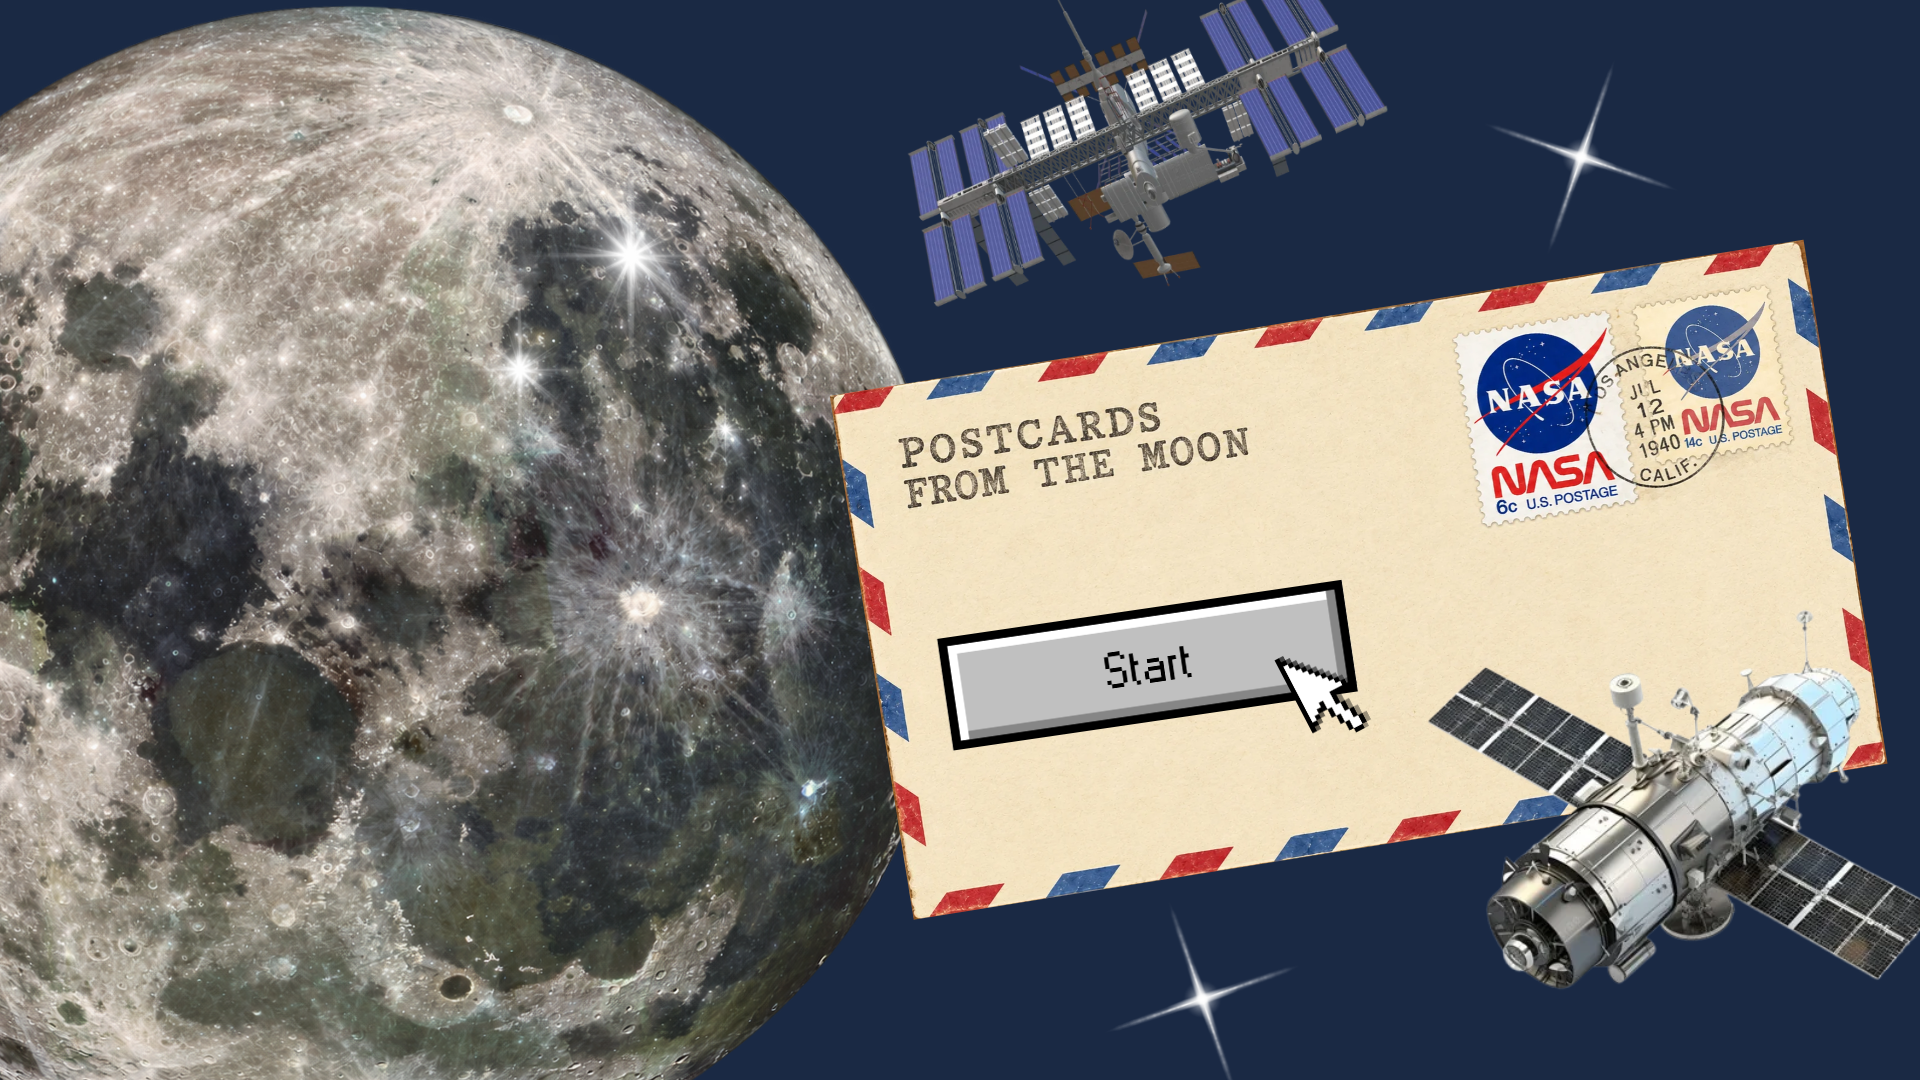
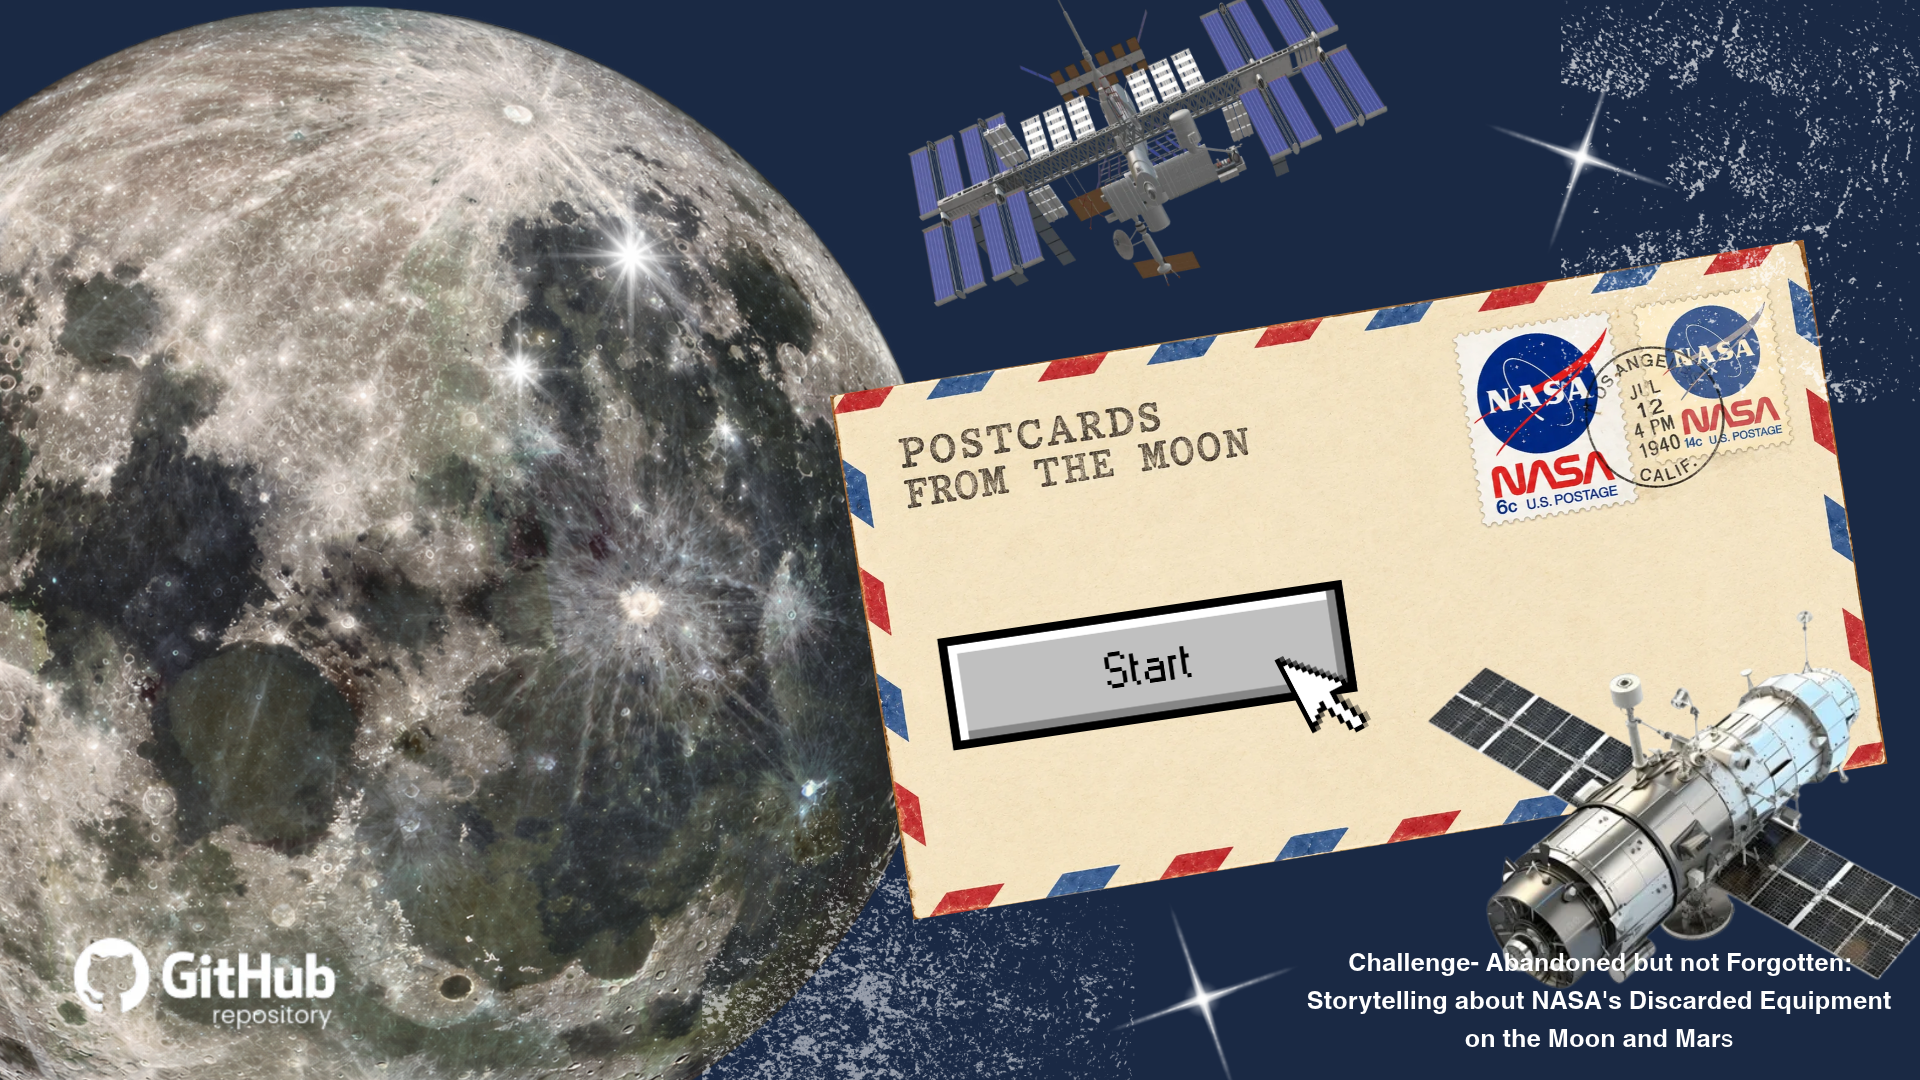
Add files via upload

diff --git a/second.html b/second.html
@@ -23,28 +23,30 @@
             background-color: #142541;
         }
 
-        /* Animated background */
+        /* GIF BACKGROUND */
 
-        .background-video {
+        .background {
             position: fixed;
+            width: 100%;
+            height: 100%;
             top: 0;
             left: 0;
 
-            width: 100%;
-            height: 100%;
+            background-image: url("space.gif");
+            background-size: cover;
+            background-position: center;
+            background-repeat: no-repeat;
 
-            object-fit: cover;
             z-index: 1;
         }
 
-        /* Invisible clickable Next button */
+        /* INVISIBLE NEXT BUTTON */
 
         .next-hotspot {
             position: fixed;
 
             left: 37.7%;
             top: 88.5%;
-
             width: 24.5%;
             height: 11%;
 
@@ -64,19 +66,11 @@
 
 <body>
 
-    <!-- Animated background -->
+    <!-- ANIMATED BACKGROUND -->
 
-    <video class="background-video"
-           autoplay
-           muted
-           playsinline>
+    <div class="background"></div>
 
-        <source src="space.mp4" type="video/mp4">
-
-    </video>
-
-
-    <!-- Clickable Next button -->
+    <!-- CLICKABLE NEXT BUTTON -->
 
     <a href="third.html"
        class="next-hotspot"
@@ -84,5 +78,4 @@
     </a>
 
 </body>
-
 </html>
